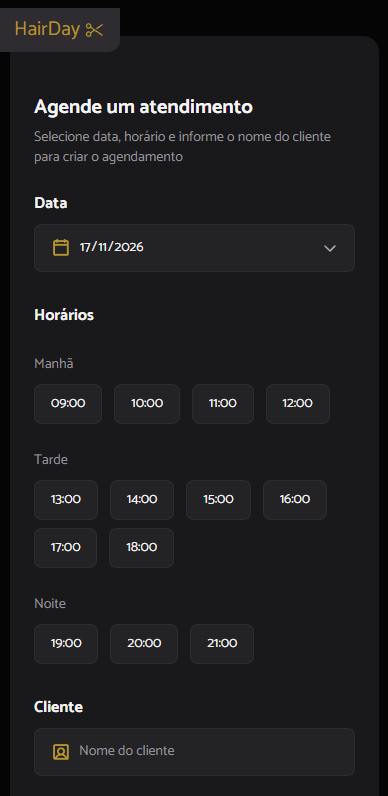
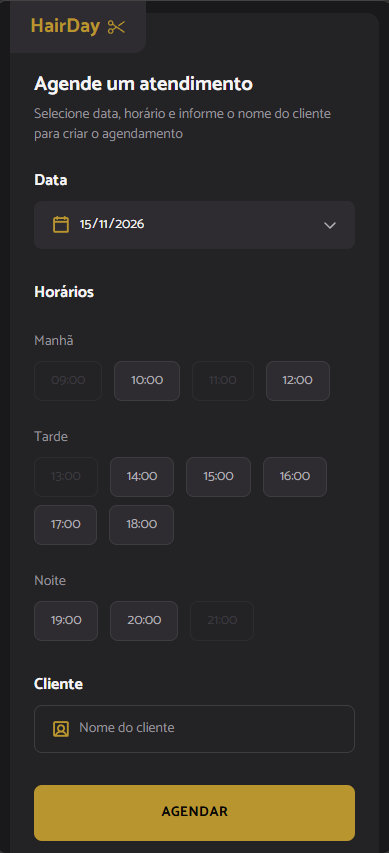
docs: atualiza prints de desktop e mobile do README

diff --git a/README.md b/README.md
@@ -27,7 +27,7 @@ Os agendamentos ficam em memória (estado do React), conforme o escopo do projet
 
 ### Desktop
 
-![Versão desktop do HairDay com formulário de agendamento e agenda do dia](docs/screenshot-desktop.png)
+![Versão desktop do HairDay com formulário de agendamento e agenda do dia](src/assets/Desktop.png)
 
 ### Mobile
 
